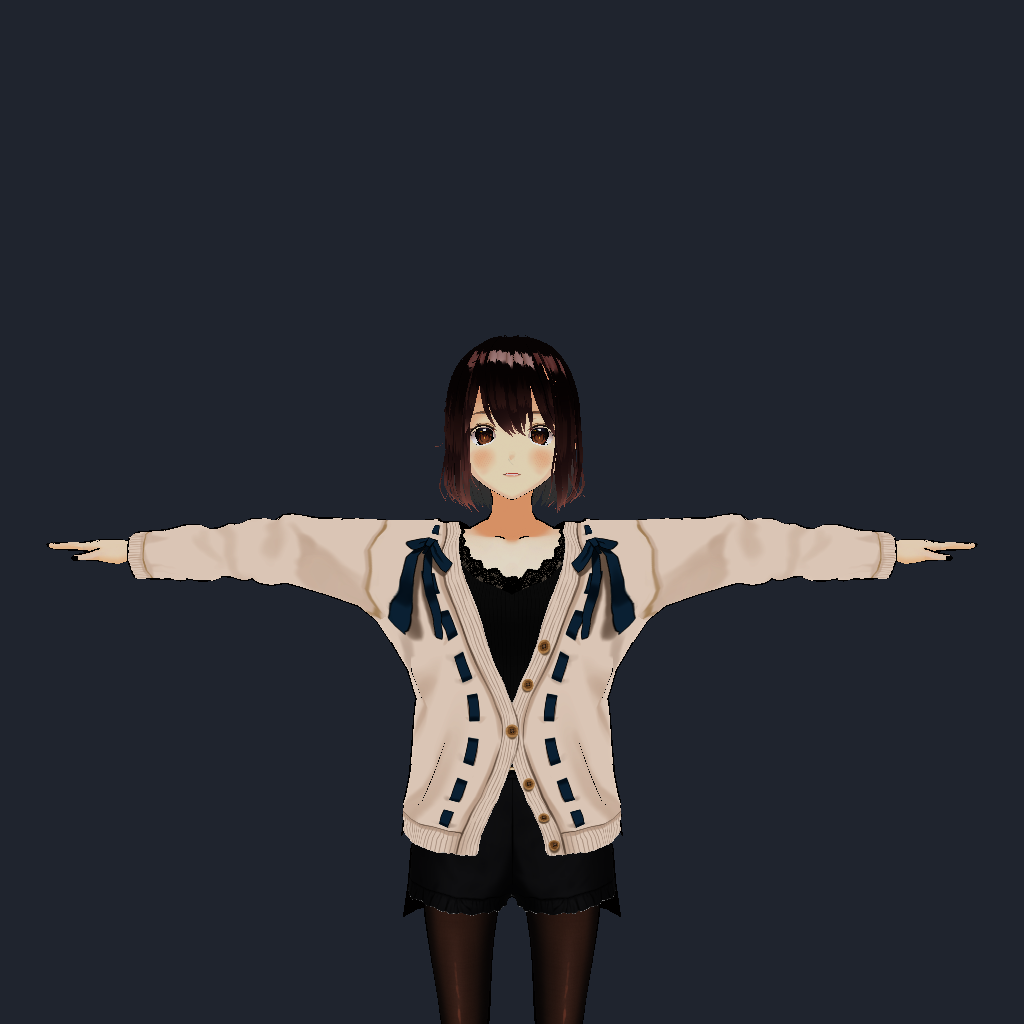
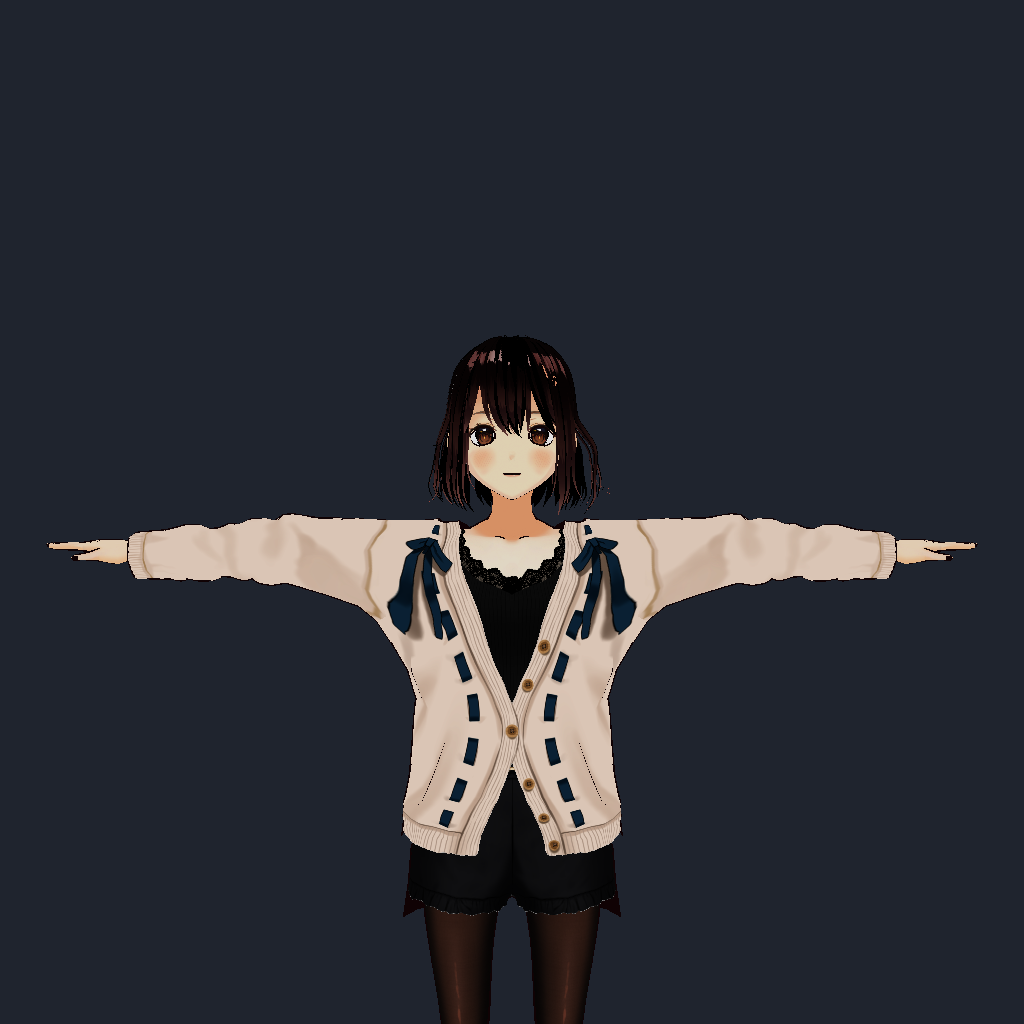
Merge pull request #325 from arkavo-org/issue/324-springbone-gravity-spec-scale
fix(springbone): apply gravityPower at VRM spec scale, drop 9.8× multiplier (#324)

Pull request: fix(springbone): apply gravityPower at VRM spec scale, drop 9.8× multiplier (#324)
Closes #324

## Summary

VMK applied spring-bone gravity at **~9.8× the VRM spec scale**. The predict kernel reinterpreted `gravityPower` as a *fraction of Earth gravity* and multiplied it by `length(globalParams.gravity)` (= 9.8, set unconditionally) plus an up-to-5× settling boost. `VRMC_springBone-1.0` — and **UniVRM (both 0.x `SpringBoneJointInit` and 1.0 `UpdateFastSpringBoneJob` paths)**, three-vrm, and godot-vrm — treat `gravityPower` as the strength **directly**: `external = gravityDir · gravityPower · dt`, with no Earth-gravity constant and no version-dependent scaling.

The oracle check matters: UniVRM's two paths are **identical** (`gravityDir · gravityPower · dt`; the 0.x `scalingFactor` is non-unit-avatar-scale, ≈1). So the 9.8 was an ungated VMK data-model reinterpretation, **not** a 0.x→1.0 conversion artifact — folding it into the 0.x parse path would have *entrenched* the divergence.

## Changes

- **`SpringBonePredict.metal`**: `effectiveGravity = gravityDir · gravityPower` — drops the `length(gravity)=9.8` multiplier **and** the settling `gravityBoost` (it lived only inside the magnitude term). Per-substep delta is now `gravityPower · dtSub`, spec-exact.
[…]

Changed region(s): [[0.4062, 0.3438, 0.5938, 0.5]]

diff --git a/Tests/VRMMetalKitTests/SpringBoneGravityScaleTests.swift b/Tests/VRMMetalKitTests/SpringBoneGravityScaleTests.swift
@@ -1,0 +1,140 @@
+// Copyright 2025 Arkavo Inc. and contributors
+// Licensed under the Apache License, Version 2.0
+
+import XCTest
+import Metal
+import simd
+@testable import VRMMetalKit
+
+/// Verifies that spring-bone gravity is applied at the VRM spec scale (#324):
+/// `external = gravityDir · gravityPower · dt`, with `gravityPower` the strength
+/// directly — matching UniVRM (both 0.x and 1.0 paths), three-vrm, and godot-vrm.
+///
+/// The pre-#324 implementation multiplied `gravityPower` by
+/// `length(globalParams.gravity)` (= 9.8, Earth gravity) plus an up-to-5×
+/// settling boost, over-driving gravity ~9.8× relative to every other renderer.
+final class SpringBoneGravityScaleTests: XCTestCase {
+
+    var device: MTLDevice!
+    var commandQueue: MTLCommandQueue!
+
+    override func setUp() async throws {
+        guard let device = MTLCreateSystemDefaultDevice() else {
+            throw XCTSkip("Metal not available")
+        }
+        guard let queue = device.makeCommandQueue() else {
+            throw XCTSkip("Could not create Metal command queue")
+        }
+        self.device = device
+        self.commandQueue = queue
+    }
+
+    /// Build a vertical chain (hanging −Y) with sideways gravity so the first
+    /// physics step bends the chain measurably. Long bones (1 m) keep the tiny
+    /// first-step move well inside the rest length, so the distance constraint
+    /// is a negligible correction and the measured sideways displacement is the
+    /// clean gravity signal.
+    private func buildSidewaysGravityChain(
+        boneCount: Int,
+        gravityPower: Float
+    ) throws -> VRMModel {
+        let boneLength: Float = 1.0
+        let model = try SpringBoneTestFixtures.makeVerticalChain(
+            device: device,
+            boneCount: boneCount,
+            boneLength: boneLength,
+            rootY: Float(boneCount)
+        )
+
+        var joints: [VRMSpringJoint] = []
+        for i in 0..<boneCount {
+            var joint = VRMSpringJoint(node: i)
+            joint.hitRadius = 0.02
+            joint.stiffness = 0.0                       // isolate gravity from bind-pose pull
+            joint.gravityPower = gravityPower
+            joint.gravityDir = SIMD3<Float>(1, 0, 0)    // sideways: bends the vertical chain
+            joint.dragForce = 0.0
+            joints.append(joint)
+        }
+        var spring = VRMSpring(name: "SidewaysGravityChain")
+        spring.joints = joints
+        var springBone = VRMSpringBone()
+        springBone.springs = [spring]
+        model.springBone = springBone
+
+        let buffers = SpringBoneBuffers(device: device)
+        buffers.allocateBuffers(numBones: boneCount, numSpheres: 0, numCapsules: 0)
+        model.springBoneBuffers = buffers
+
+        // settlingFrames = 0 → settling boost is inert, so the only scale under
+        // test is the gravity term itself. We deliberately ship the historical
+        // Earth-gravity vector [0,−9.8,0] (now an additive external force in the
+        // −Y channel): the *sideways* (X) response must come solely from
+        // per-joint gravityPower at spec scale, regardless of that vector. The
+        // pre-#324 code folded its 9.8 magnitude into the X response; the spec
+        // code must not. X is measured; the −Y external force does not touch it.
+        model.springBoneGlobalParams = SpringBoneTestFixtures.defaultGlobalParams(
+            numBones: boneCount,
+            gravity: SIMD3<Float>(0, -9.8, 0)
+        )
+        return model
+    }
+
+    /// Acceptance (#324): per-step sideways displacement matches
+    /// `gravityPower · dtSub` (spec scale), NOT 9.8× that.
+    func testFirstStepGravityMatchesSpecScale() throws {
+        let boneCount = 4
+        let gravityPower: Float = 0.5
+        let dtSub: Float = 1.0 / 120.0
+
+        let model = try buildSidewaysGravityChain(boneCount: boneCount, gravityPower: gravityPower)
+        let system = try SpringBoneComputeSystem(device: device)
+        try system.populateSpringBoneData(model: model)
+
+        let tip = boneCount - 1
+        let initialX = SpringBoneTestFixtures.readBonePosition(model: model, boneIndex: tip).x
+
+        // Exactly one 120 Hz substep.
+        try SpringBoneTestFixtures.runFrame(
+            system: system, model: model, commandQueue: commandQueue, deltaTime: 1.0 / 120.0)
+
+        let tipX = SpringBoneTestFixtures.readBonePosition(model: model, boneIndex: tip).x
+        let displacement = tipX - initialX
+
+        let expected = gravityPower * dtSub               // spec: 0.5/120 ≈ 0.004167 m
+        let nonSpec9p8 = 9.8 * gravityPower * dtSub        // pre-#324: ≈ 0.0408 m
+
+        // Within 25% of the spec value — comfortably excludes the 9.8× value.
+        XCTAssertEqual(
+            displacement, expected, accuracy: expected * 0.25,
+            "First-step sideways displacement \(displacement) m should match spec scale " +
+            "gravityPower·dtSub = \(expected) m (UniVRM/three-vrm/godot), not the Earth-gravity " +
+            "value \(nonSpec9p8) m.")
+    }
+
+    /// gravityPower must scale gravity linearly (doubling power doubles the
+    /// per-step displacement), with no Earth-gravity constant folded in.
+    func testGravityScalesLinearlyWithPower() throws {
+        let dtSub: Float = 1.0 / 120.0
+        let tip = 3
+
+        func firstStepDisplacement(gravityPower: Float) throws -> Float {
+            let model = try buildSidewaysGravityChain(boneCount: 4, gravityPower: gravityPower)
+            let system = try SpringBoneComputeSystem(device: device)
+            try system.populateSpringBoneData(model: model)
+            let initialX = SpringBoneTestFixtures.readBonePosition(model: model, boneIndex: tip).x
+            try SpringBoneTestFixtures.runFrame(
+                system: system, model: model, commandQueue: commandQueue, deltaTime: 1.0 / 120.0)
+            return SpringBoneTestFixtures.readBonePosition(model: model, boneIndex: tip).x - initialX
+        }
+
+        let half = try firstStepDisplacement(gravityPower: 0.5)
+        let full = try firstStepDisplacement(gravityPower: 1.0)
+
+        XCTAssertEqual(full, 2 * half, accuracy: half * 0.1,
+            "Doubling gravityPower should double per-step displacement (\(half) → \(full)).")
+        XCTAssertEqual(full, 1.0 * dtSub, accuracy: 1.0 * dtSub * 0.25,
+            "gravityPower=1.0 should give dtSub (\(dtSub) m) of sideways move per substep, " +
+            "not 9.8× that.")
+    }
+}

diff --git a/Sources/VRMMetalKit/Renderer/VRMRenderer+MTKViewDelegate.swift b/Sources/VRMMetalKit/Renderer/VRMRenderer+MTKViewDelegate.swift
@@ -117,9 +117,10 @@ extension VRMRenderer {
     ///
     /// Both inputs are optional; pass `nil` to leave that channel untouched
     /// for this call. While the timer is active the supplied values override
-    /// ``VRMModel/springBoneGlobalParams``'s `gravity` and the wind
+    /// ``VRMModel/springBoneGlobalParams``'s `gravity` (an additive external
+    /// force, VRMC_springBone-1.0 `model.ExternalForce`) and the wind
     /// direction/amplitude derived from `wind`. When the timer elapses the
-    /// renderer restores gravity to its default `(0, -9.8, 0)` and clears any
+    /// renderer restores the external force to its default zero and clears any
     /// wind amplitude that was set via this call.
     ///
     /// Use this to drive transient effects such as gusts, impacts, or jump
@@ -127,8 +128,8 @@ extension VRMRenderer {
     /// configuration.
     ///
     /// - Parameters:
-    ///   - gravity: Temporary gravity vector in world space (m/s²), or `nil`
-    ///     to leave gravity unchanged.
+    ///   - gravity: Temporary additive external force in world space (m/s²),
+    ///     applied on top of per-joint gravity, or `nil` to leave it unchanged.
     ///   - wind: Temporary wind vector; its direction sets the wind direction
     ///     and its length sets the wind amplitude. Pass `nil` to leave wind
     ///     unchanged.
@@ -160,10 +161,10 @@ extension VRMRenderer {
             }
             forceTimer -= deltaTime
         } else if temporaryGravity != nil || temporaryWind != nil {
-            // Timer expired - restore initial gravity and clear wind
+            // Timer expired - restore the external force to zero and clear wind
             // Only restore if we had temporary overrides (don't overwrite initial setup)
             if temporaryGravity != nil {
-                model?.springBoneGlobalParams?.gravity = [0, -9.8, 0]
+                model?.springBoneGlobalParams?.gravity = VRMConstants.Physics.defaultGravity
             }
             if temporaryWind != nil {
                 model?.springBoneGlobalParams?.windAmplitude = 0

diff --git a/Sources/VRMMetalKit/Core/VRMConstants.swift b/Sources/VRMMetalKit/Core/VRMConstants.swift
@@ -130,8 +130,10 @@ public enum VRMConstants {
         /// - 4+: Stiffer response, reaches equilibrium faster
         public static let constraintIterations: Int = 4
 
-        /// Default gravity vector in world space (m/s²)
-        public static let defaultGravity = SIMD3<Float>(0, -9.8, 0)
+        /// Default global external force (VRMC_springBone-1.0 `model.ExternalForce`
+        /// analog), added on top of per-joint `gravityDir · gravityPower`. Defaults
+        /// to zero so per-joint gravity is the sole, spec-exact gravity source (#324).
+        public static let defaultGravity = SIMD3<Float>(0, 0, 0)
 
         /// Epsilon for morph target weight comparison (weights below this are considered zero)
         public static let morphEpsilon: Float = 1e-4

diff --git a/Sources/VRMMetalKit/SpringBoneBuffers.swift b/Sources/VRMMetalKit/SpringBoneBuffers.swift
@@ -401,7 +401,10 @@ public struct PlaneCollider {
 /// the Metal shader source — comments record the byte offset of each field. See
 /// <doc:SpringBonePhysics> for the simulation pipeline that consumes these values.
 public struct SpringBoneGlobalParams {
-    /// World-space gravity vector in m/s² (typically `[0, -9.8, 0]`). Byte offset 0.
+    /// World-space additive external force in m/s² (VRMC_springBone-1.0
+    /// `model.ExternalForce` analog), added on top of each joint's
+    /// `gravityDir · gravityPower`. Defaults to zero; per-joint gravity is the
+    /// spec-exact gravity source (#324). Byte offset 0.
     public var gravity: SIMD3<Float>
     /// Substep dt in seconds (typically `1.0 / (60 * substeps)`). Byte offset 16.
     public var dtSub: Float

diff --git a/Tests/VRMMetalKitTests/SpringBoneTestFixtures.swift b/Tests/VRMMetalKitTests/SpringBoneTestFixtures.swift
@@ -96,7 +96,8 @@ enum SpringBoneTestFixtures {
     // MARK: - Global-params defaults
 
     /// Default `SpringBoneGlobalParams` for unit tests. 120 Hz substep dt,
-    /// standard gravity, no wind. Override individual fields as needed.
+    /// zero external force (spec gravity comes from per-joint `gravityPower`,
+    /// #324), no wind. Override individual fields as needed.
     ///
     /// `numBones` *must* match the chain length; other counts default to 0.
     static func defaultGlobalParams(
@@ -104,7 +105,7 @@ enum SpringBoneTestFixtures {
         numSpheres: Int = 0,
         numCapsules: Int = 0,
         numPlanes: Int = 0,
-        gravity: SIMD3<Float> = SIMD3<Float>(0, -9.8, 0),
+        gravity: SIMD3<Float> = SIMD3<Float>(0, 0, 0),
         windAmplitude: Float = 0.0,
         windFrequency: Float = 0.0,
         windPhase: Float = 0.0,

diff --git a/Tests/VRMMetalKitTests/SpringBoneBugAuditTDDTests.swift b/Tests/VRMMetalKitTests/SpringBoneBugAuditTDDTests.swift
@@ -50,7 +50,7 @@ final class SpringBoneBugAuditTDDTests: XCTestCase {
 
     private func makeGlobalParams(numBones: Int) -> SpringBoneGlobalParams {
         SpringBoneGlobalParams(
-            gravity: SIMD3<Float>(0, -9.8, 0),
+            gravity: SIMD3<Float>(0, 0, 0),  // #324: zero external force; gravity is per-joint gravityPower
             dtSub: Float(1.0 / 120.0),
             windAmplitude: 0.0,
             windFrequency: 0.0,
@@ -396,7 +396,7 @@ final class SpringBoneBugAuditTDDTests: XCTestCase {
         model.springBoneBuffers = buffers
 
         model.springBoneGlobalParams = SpringBoneGlobalParams(
-            gravity: SIMD3<Float>(0, -9.8, 0),
+            gravity: SIMD3<Float>(0, 0, 0),  // #324: zero external force; gravity is per-joint gravityPower
             dtSub: Float(1.0 / 120.0),
             windAmplitude: 0.0,
             windFrequency: 0.0,

diff --git a/Tests/VRMMetalKitTests/SpringBonePhysicsSpecTests.swift b/Tests/VRMMetalKitTests/SpringBonePhysicsSpecTests.swift
@@ -157,7 +157,7 @@ final class SpringBonePhysicsSpecTests: XCTestCase {
         model.springBoneBuffers = buffers
 
         let globalParams = SpringBoneGlobalParams(
-            gravity: SIMD3<Float>(0, -9.8, 0),
+            gravity: SIMD3<Float>(0, 0, 0), // #324: spec gravity from per-joint gravityPower
             dtSub: Float(1.0 / 120.0),
             windAmplitude: 0.0,
             windFrequency: 0.0,
@@ -623,7 +623,7 @@ final class SpringBonePhysicsSpecTests: XCTestCase {
 
         // Set up global params
         let globalParams = SpringBoneGlobalParams(
-            gravity: SIMD3<Float>(0, -9.8, 0),
+            gravity: SIMD3<Float>(0, 0, 0), // #324: spec gravity from per-joint gravityPower
             dtSub: Float(1.0 / 120.0),
             windAmplitude: 0.0,
             windFrequency: 0.0,

diff --git a/Sources/VRMMetalKit/Core/VRMModel.swift b/Sources/VRMMetalKit/Core/VRMModel.swift
@@ -1202,7 +1202,7 @@ public class VRMModel: @unchecked Sendable {
         // Initialize global parameters
         // settlingFrames: 120 frames (~1 second) to let bones settle with gravity before enabling inertia compensation
         springBoneGlobalParams = SpringBoneGlobalParams(
-            gravity: SIMD3<Float>(0, -9.8, 0), // Standard gravity
+            gravity: VRMConstants.Physics.defaultGravity, // Additive external force; zero so per-joint gravityPower is the sole gravity source (#324)
             dtSub: 1.0 / 120.0, // 120Hz fixed substeps
             windAmplitude: 0.0,
             windFrequency: 1.0,

diff --git a/docs/superpowers/specs/2026-06-06-springbone-gravity-spec-scale-design.md b/docs/superpowers/specs/2026-06-06-springbone-gravity-spec-scale-design.md
@@ -1,0 +1,84 @@
+# Spec-conformant spring-bone gravity (#324)
+
+## Problem
+
+VMK applies spring-bone gravity at ~9.8× the VRM spec scale. The shader treats
+`gravityPower` as a *fraction of Earth gravity* and multiplies it by
+`length(globalParams.gravity)` (= 9.8, set unconditionally), plus an up-to-5×
+settling `gravityBoost`. The `VRMC_springBone` algorithm — and UniVRM (both 0.x
+and 1.0 paths), three-vrm, and godot-vrm — treat `gravityPower` as the strength
+**directly**: `external = gravityDir · gravityPower · dt`, with no Earth-gravity
+constant and no version-dependent scaling.
+
+The oracle check (UniVRM) confirms there is **no** 0.x→1.0 gravity-scale
+difference: both `SpringBoneJointInit.cs` (0.x) and `UpdateFastSpringBoneJob.cs`
+(1.0) compute `gravityDir · gravityPower · dt` (the 0.x `scalingFactor` is
+non-unit avatar scale, ≈1). So the 9.8 is a VMK data-model reinterpretation
+applied ungated to every asset, not a conversion artifact. A spec-authored asset
+sags ~9.8× harder in VMK than in any other VRM renderer.
+
+## Decisions
+
+- **Polarity:** spec scale becomes the **default** (no opt-in flag retaining the
+  9.8). Migration documented in the PR and release notes.
+- **No retained non-conformance** on the gravity term: drop both the
+  `length(gravity)=9.8` multiplier and the settling `gravityBoost`.
+- **Global force knob** stays in `SpringBoneGlobalParams` — repurposed to the
+  spec's additive external force.
+
+## Change
+
+### Shader — `SpringBonePredict.metal`
+
+Replace:
+```metal
+float gravityMagnitude = length(globalParams.gravity) * gravityBoost;
+float3 effectiveGravity = boneParams[id].gravityDir * gravityMagnitude * boneParams[id].gravityPower;
+```
+with the spec form:
+```metal
+float3 effectiveGravity = boneParams[id].gravityDir * boneParams[id].gravityPower;
+```
+`gravityBoost` lives only inside `gravityMagnitude`, so it dies with it. Per-substep
+gravity delta becomes `gravityPower · dtSub` — spec-exact.
+
+### Global `gravity` param
+
+Currently the global `gravity` feeds the gravity term only via its *length* (its
+direction is ignored; per-joint `gravityDir` carries direction). The spec has no
+global gravity multiplier; the only spec-sanctioned global force is UniVRM's
+additive `ExternalForce`. Repurpose `SpringBoneGlobalParams.gravity` as an
+**additive external force** (added alongside wind/inertial, not multiplied into
+the gravity term), and change its default from `[0,−9.8,0]` to `[0,0,0]` so
+per-joint gravity is the sole, spec-exact gravity source.
+`applySpringBoneForce(gravity:)` and its restore-to-`[0,−9.8,0]` logic become
+restore-to-zero.
+
+## Out of scope (explicit)
+
+1. **#162 `gravityPower=0→1.0` substitution** — a *separate* non-conformance
+   (UniVRM treats `gravityPower=0` as no gravity). Folding it in would change
+   whether 0.x hair has gravity at all. #324 closes only the 9.8 gap. Net effect:
+   AvatarSample_A still droops, at spec scale (~9.8× less than today).
+2. **Settling drag reduction and stiffness ramp** — affect velocity decay /
+   bind-pose blend, not gravity magnitude; they don't violate #324's steady-state
+   criterion. Removing the settle machinery is a separate concern.
+
+## Verification (TDD-first)
+
+- New spec test: 4-joint chain, `gravityDir=[1,0,0]`, `gravityPower=0.5`; assert
+  first-step sideways tip displacement ≈ `gravityPower · dtSub` (spec scale), not
+  the 9.8× value. Written red against current code first.
+- Regenerate `SpringBoneRegressionTests` baseline (freezes the trajectory; will
+  trip — expected) and any AvatarSample_A render baseline; regenerate
+  `AvatarSample_A.png` sanity render.
+- `swift build` + `make shaders` (the `.metal` change needs a manual `metallib`
+  rebuild) + full spring-bone test suite.
+- Migration notes in PR + release notes; mark the release a pre-release
+  (behaviour change) per the established convention.
+
+## Acceptance
+
+VMK's per-step gravity displacement for a given `gravityPower` matches
+`gravityPower · dt` — parity with three-vrm / godot / UniVRM / spec on a
+sideways-gravity bend.

diff --git a/Sources/VRMMetalKit/VRMMetalKit.docc/Articles/SpringBonePhysics.md b/Sources/VRMMetalKit/VRMMetalKit.docc/Articles/SpringBonePhysics.md
@@ -18,7 +18,7 @@ Spring configuration is authored as part of the VRM file, under the `VRMC_spring
 
 ## Runtime controls
 
-Most applications never touch the spring system at runtime: it is configured at load and stepped automatically. For transient effects — a wind gust, an impact, a jump landing — use ``VRMRenderer/applySpringBoneForce(gravity:wind:duration:)``. It overrides the global gravity and/or wind for `duration` seconds and then restores gravity to `(0, -9.8, 0)` and clears the wind amplitude. Either input can be `nil` to leave that channel untouched.
+Most applications never touch the spring system at runtime: it is configured at load and stepped automatically. For transient effects — a wind gust, an impact, a jump landing — use ``VRMRenderer/applySpringBoneForce(gravity:wind:duration:)``. The `gravity` channel is an additive *external force* (VRMC_springBone-1.0 `model.ExternalForce`) layered on top of each joint's spec-scale `gravityDir · gravityPower`; it overrides the external force and/or wind for `duration` seconds and then restores the external force to zero and clears the wind amplitude. Either input can be `nil` to leave that channel untouched.
 
 ```swift
 // Apply a 2-second wind gust while keeping default gravity.